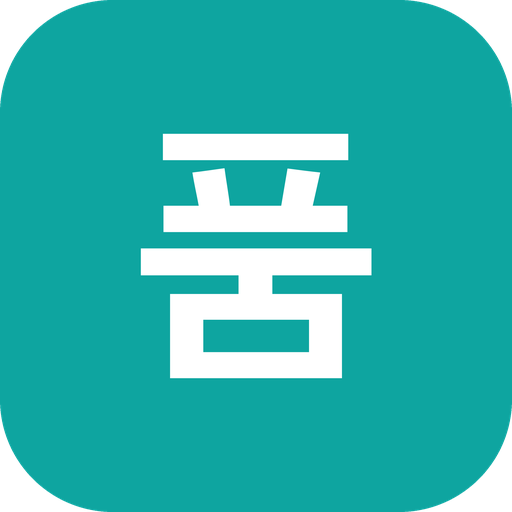
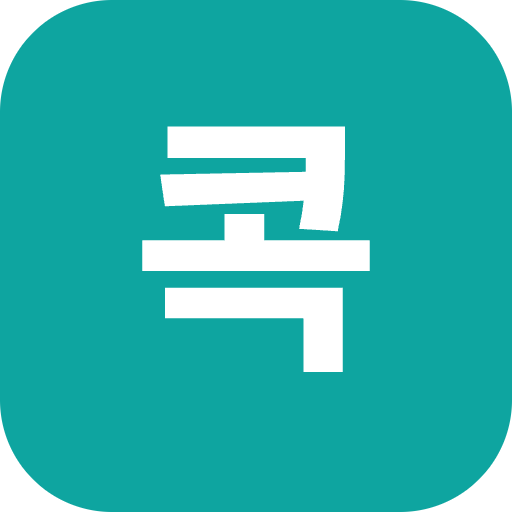
앱 이름을 품 → 근무콕으로 (로고·아이콘 '콕')

Changed region(s): [[0.25, 0.2188, 0.75, 0.5312], [0.2812, 0.5312, 0.7188, 0.75], [0.5938, 0.625, 0.625, 0.6875]]

diff --git a/app.js b/app.js
@@ -1,8 +1,8 @@
-// 품 (근무 달력) — 여러 매장이 각자 매장을 등록해서 쓰는 버전 (GitHub Pages + Firebase)
+// 근무콕 (근무 달력, 예전 이름 "품") — 여러 매장이 각자 매장을 등록해서 쓰는 버전 (GitHub Pages + Firebase)
 // 매장마다 데이터는 Firebase 의 stores/{매장 코드}/ 아래에 따로 저장되고, 이 브라우저의 localStorage 는 캐시로만 쓴다.
 
 const TIME_ZONE = "Asia/Seoul";
-const APP_NAME = "품";
+const APP_NAME = "근무콕";
 const LAST_STORE_KEY = "shift-calendar:store";
 // 이 기기에서 쓰는 매장 코드: 주소에 ?s=코드 가 있으면 그것, 없으면 마지막으로 쓴 매장
 let storeId = initStoreId();
@@ -510,7 +510,7 @@ const errorLine = () => (state.error ? `<p class="error">${esc(state.error)}</p>
 function renderLock() {
   const title = `
     <div class="lock-brand">
-      <span class="logo big" aria-hidden="true">품</span>
+      <span class="logo big" aria-hidden="true">콕</span>
       <p class="lock-title">관리자</p>
     </div>`;
   if (!state.authReady || state.busy === "check") return `<div class="lock-page">${title}</div>`;
@@ -577,7 +577,7 @@ function renderPick() {
   return `
     <div class="lock-page">
       <div class="lock-brand">
-        <span class="logo big" aria-hidden="true">품</span>
+        <span class="logo big" aria-hidden="true">콕</span>
         <p class="lock-title">${esc(APP_NAME)}</p>
       </div>
       <p class="lock-note">관리자에게 받은 매장 코드를 입력해주세요.</p>
@@ -2762,7 +2762,7 @@ function renderScheduleSheet({ wide = false } = {}) {
         ${rows}
       </div>
       ${compact ? actions : ""}
-      <p class="sc-brand">${esc(storeName())} · ${todayDateString().replaceAll("-", ".")} 출력 · 품</p>
+      <p class="sc-brand">${esc(storeName())} · ${todayDateString().replaceAll("-", ".")} 출력 · 근무콕</p>
     </div>`;
 }
 
@@ -3780,7 +3780,7 @@ function renderInstallHint() {
       : "브라우저 메뉴 → '홈 화면에 추가'를 누르면 앱처럼 쓸 수 있어요.";
   return `
     <div class="m-install">
-      <span class="logo" aria-hidden="true">품</span>
+      <span class="logo" aria-hidden="true">콕</span>
       <div><b>홈 화면에 추가하기</b><small>${how}</small></div>
       ${installEvent ? `<button type="button" class="pill" data-action="install-app">추가</button>` : ""}
       <button type="button" class="m-install-x" data-action="dismiss-install" aria-label="닫기">${ICON_CLOSE}</button>

diff --git a/style.css b/style.css
@@ -2393,7 +2393,7 @@ button:not(:disabled):active,
 }
 
 /* =====================================================================
-   품 디자인 (토스 스타일): 회색 바탕 + 흰 카드, Pretendard, 굵은 제목·숫자
+   근무콕 디자인 (토스 스타일): 회색 바탕 + 흰 카드, Pretendard, 굵은 제목·숫자
    위의 규칙을 덮어쓰는 층. --bg = 화면 바탕·입력칸 채움, --paper = 카드
    ===================================================================== */
 :root {
@@ -2436,7 +2436,7 @@ body {
   letter-spacing: -0.01em;
 }
 
-/* 로고: 파란 둥근 네모 안의 "품" */
+/* 로고: 청록 둥근 네모 안의 "콕" */
 .logo {
   display: inline-grid;
   place-items: center;

diff --git a/admin/index.html b/admin/index.html
@@ -3,8 +3,8 @@
   <head>
     <meta charset="utf-8" />
     <meta name="viewport" content="width=device-width, initial-scale=1, viewport-fit=cover" />
-    <title>품 관리자</title>
-    <meta name="apple-mobile-web-app-title" content="품 관리자" />
+    <title>근무콕 관리자</title>
+    <meta name="apple-mobile-web-app-title" content="근무콕 관리자" />
     <link rel="manifest" href="manifest.json" />
     <meta name="description" content="직원 · 근무표 · 달력 · 급여" />
     <meta name="robots" content="noindex" />

diff --git a/index.html b/index.html
@@ -3,8 +3,8 @@
   <head>
     <meta charset="utf-8" />
     <meta name="viewport" content="width=device-width, initial-scale=1, viewport-fit=cover" />
-    <title>품</title>
-    <meta name="apple-mobile-web-app-title" content="품" />
+    <title>근무콕</title>
+    <meta name="apple-mobile-web-app-title" content="근무콕" />
     <meta name="description" content="알바생 출퇴근 체크 및 관리자 대시보드" />
     <meta name="theme-color" content="#f2f4f6" />
     <link rel="manifest" href="manifest.json" />

diff --git a/README.md b/README.md
@@ -1,4 +1,4 @@
-# 품 (근무 달력)
+# 근무콕 (근무 달력)
 
 여러 매장이 각자 매장을 등록해서 쓰는 알바 출퇴근·근무표·급여 앱입니다. (MGC 근무에서 복사해 만든 버전)
 
